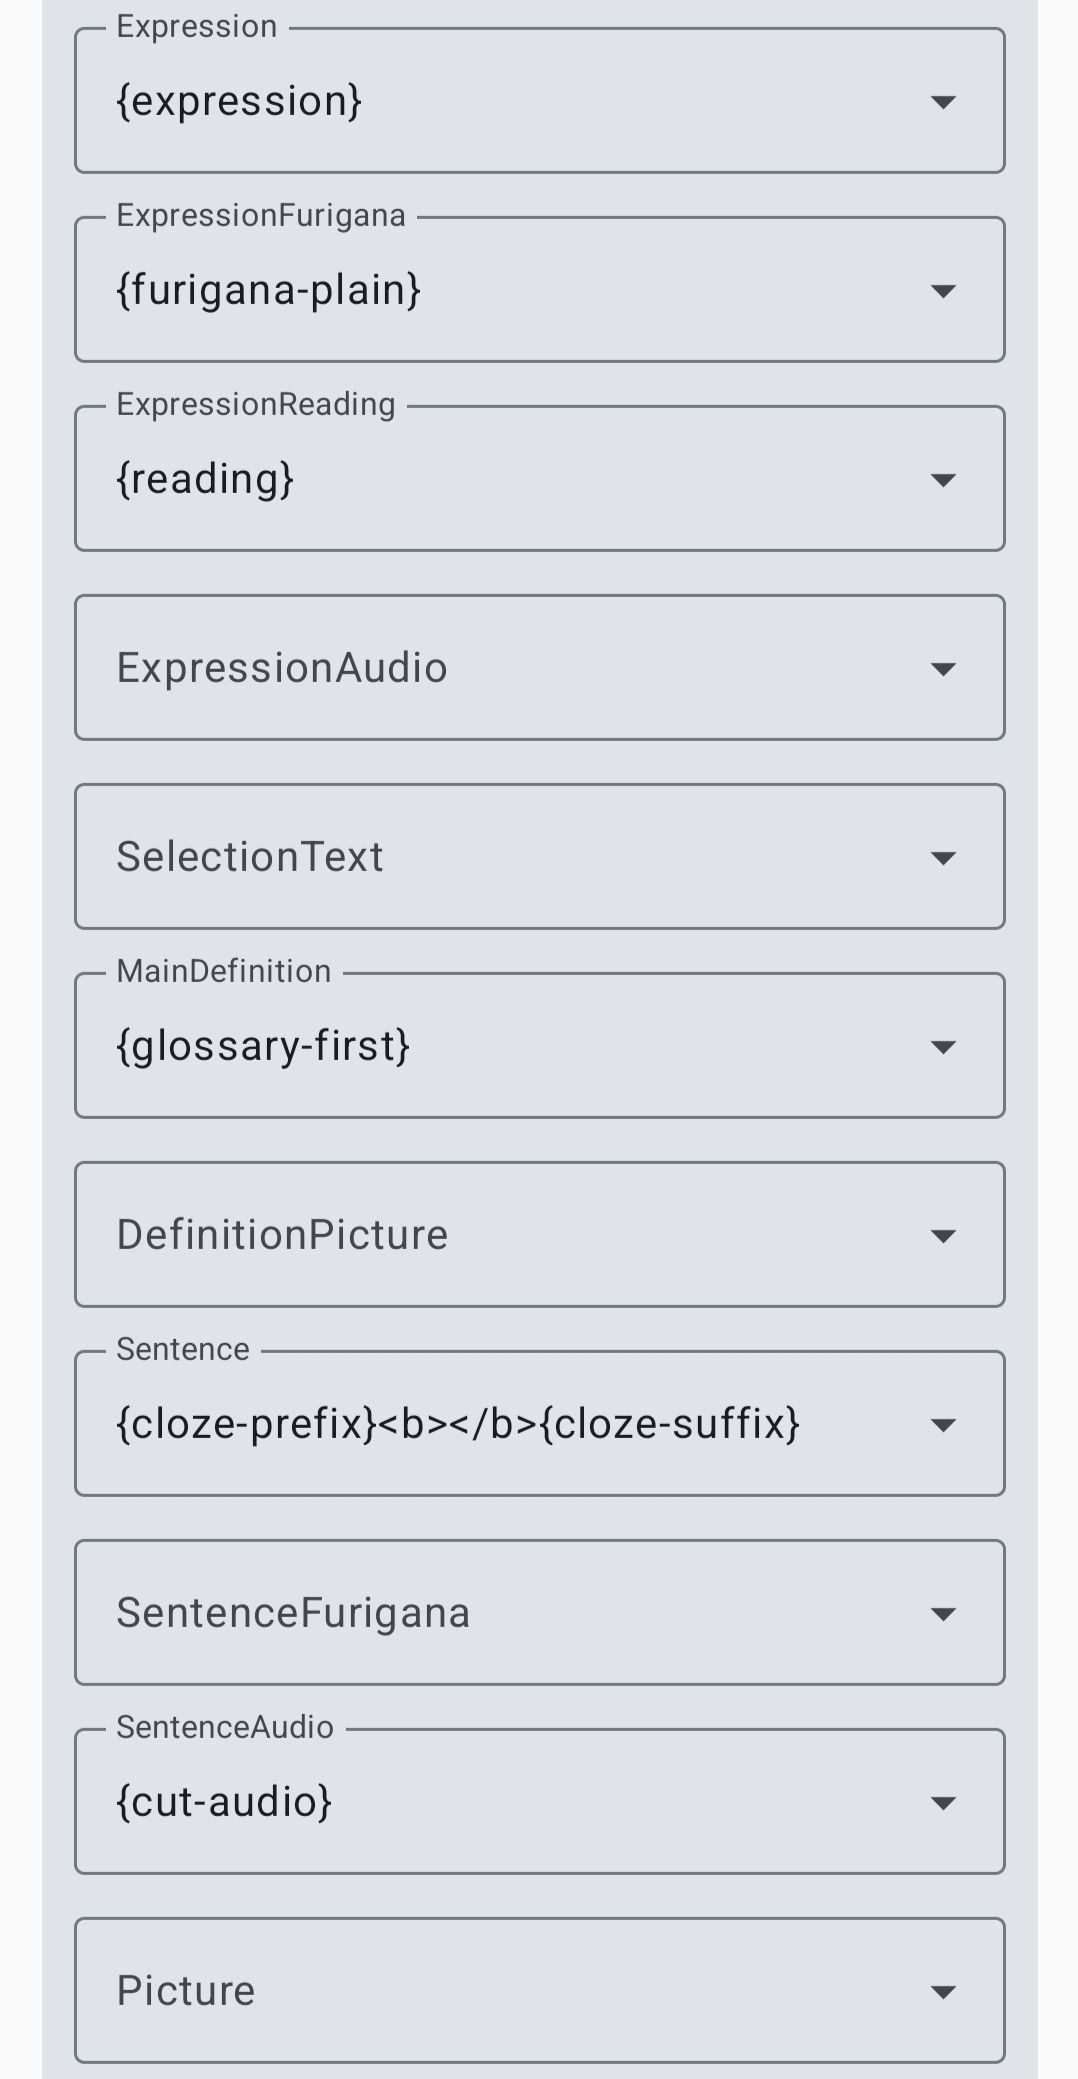
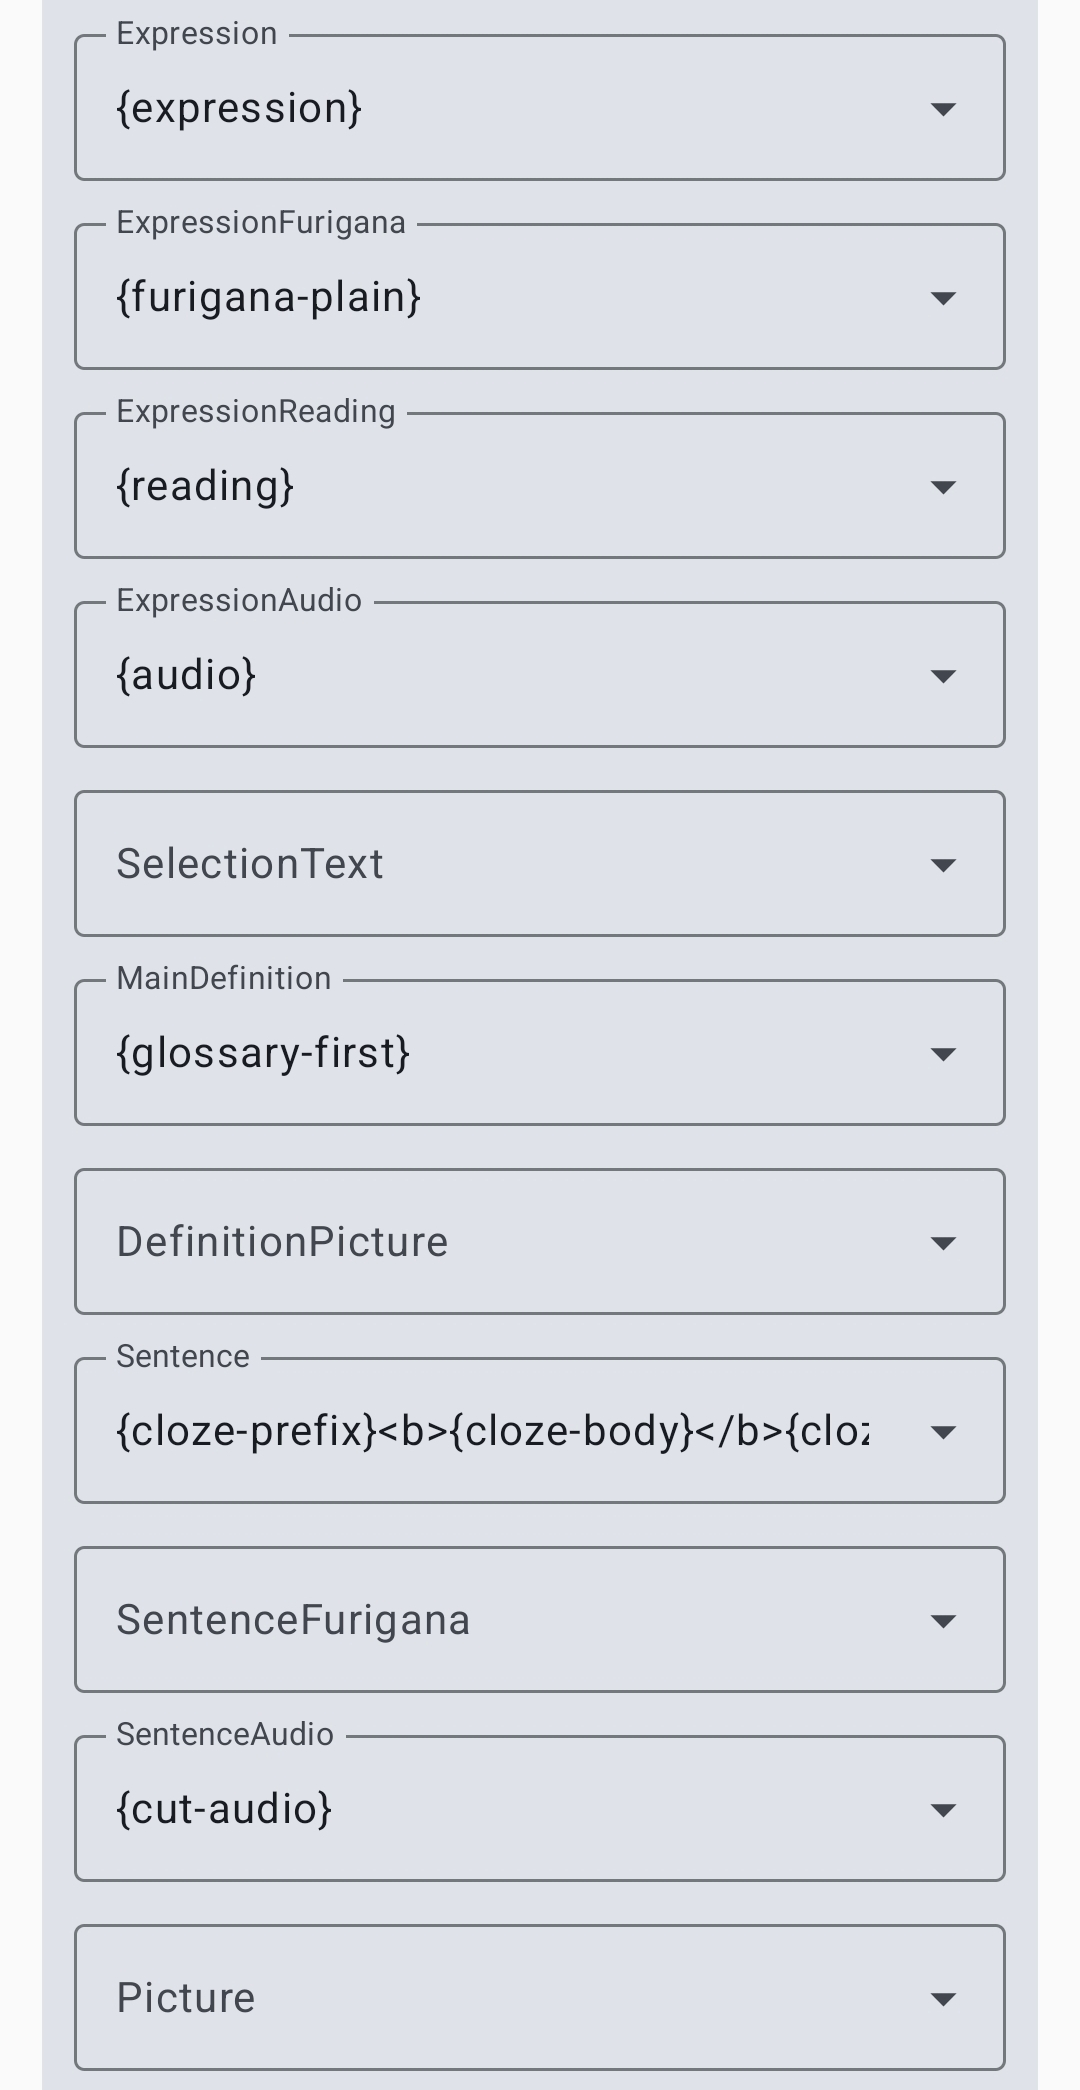
docs: update readme/images and ignore rules

diff --git a/README.md b/README.md
@@ -1,6 +1,6 @@
 # ⑨Player
 
-有声书播放器 支持anki 
+有声书播放器 支持Anki 
 
 ## 有声书
 
@@ -38,9 +38,9 @@ SRT 可参考：
   <img src="./docs/images/anki-settings-2.jpg" width="260" alt="Anki设置2" />
 </p>
 
-```cloze-prefix}<b>{cloze-body}</b>{cloze-suffix}```
+```{cloze-prefix}<b>{cloze-body}</b>{cloze-suffix}```
 {cut-audio} 句子音频
-{bookt-title} 音频文件名字
+{book-title} 音频文件名字
 
 Anki模板:[Lapis](https://github.com/donkuri/lapis)
 ## 手柄
@@ -73,6 +73,8 @@ Anki模板:[Lapis](https://github.com/donkuri/lapis)
 ##  特别感谢
 
 [hoshidicts](https://github.com/Manhhao/hoshidicts)
+[Ankiconnect Android](https://github.com/KamWithK/AnkiconnectAndroid)本地音频
+[Yomitan](https://github.com/yomidevs/yomitan)
 
 ## License
 
